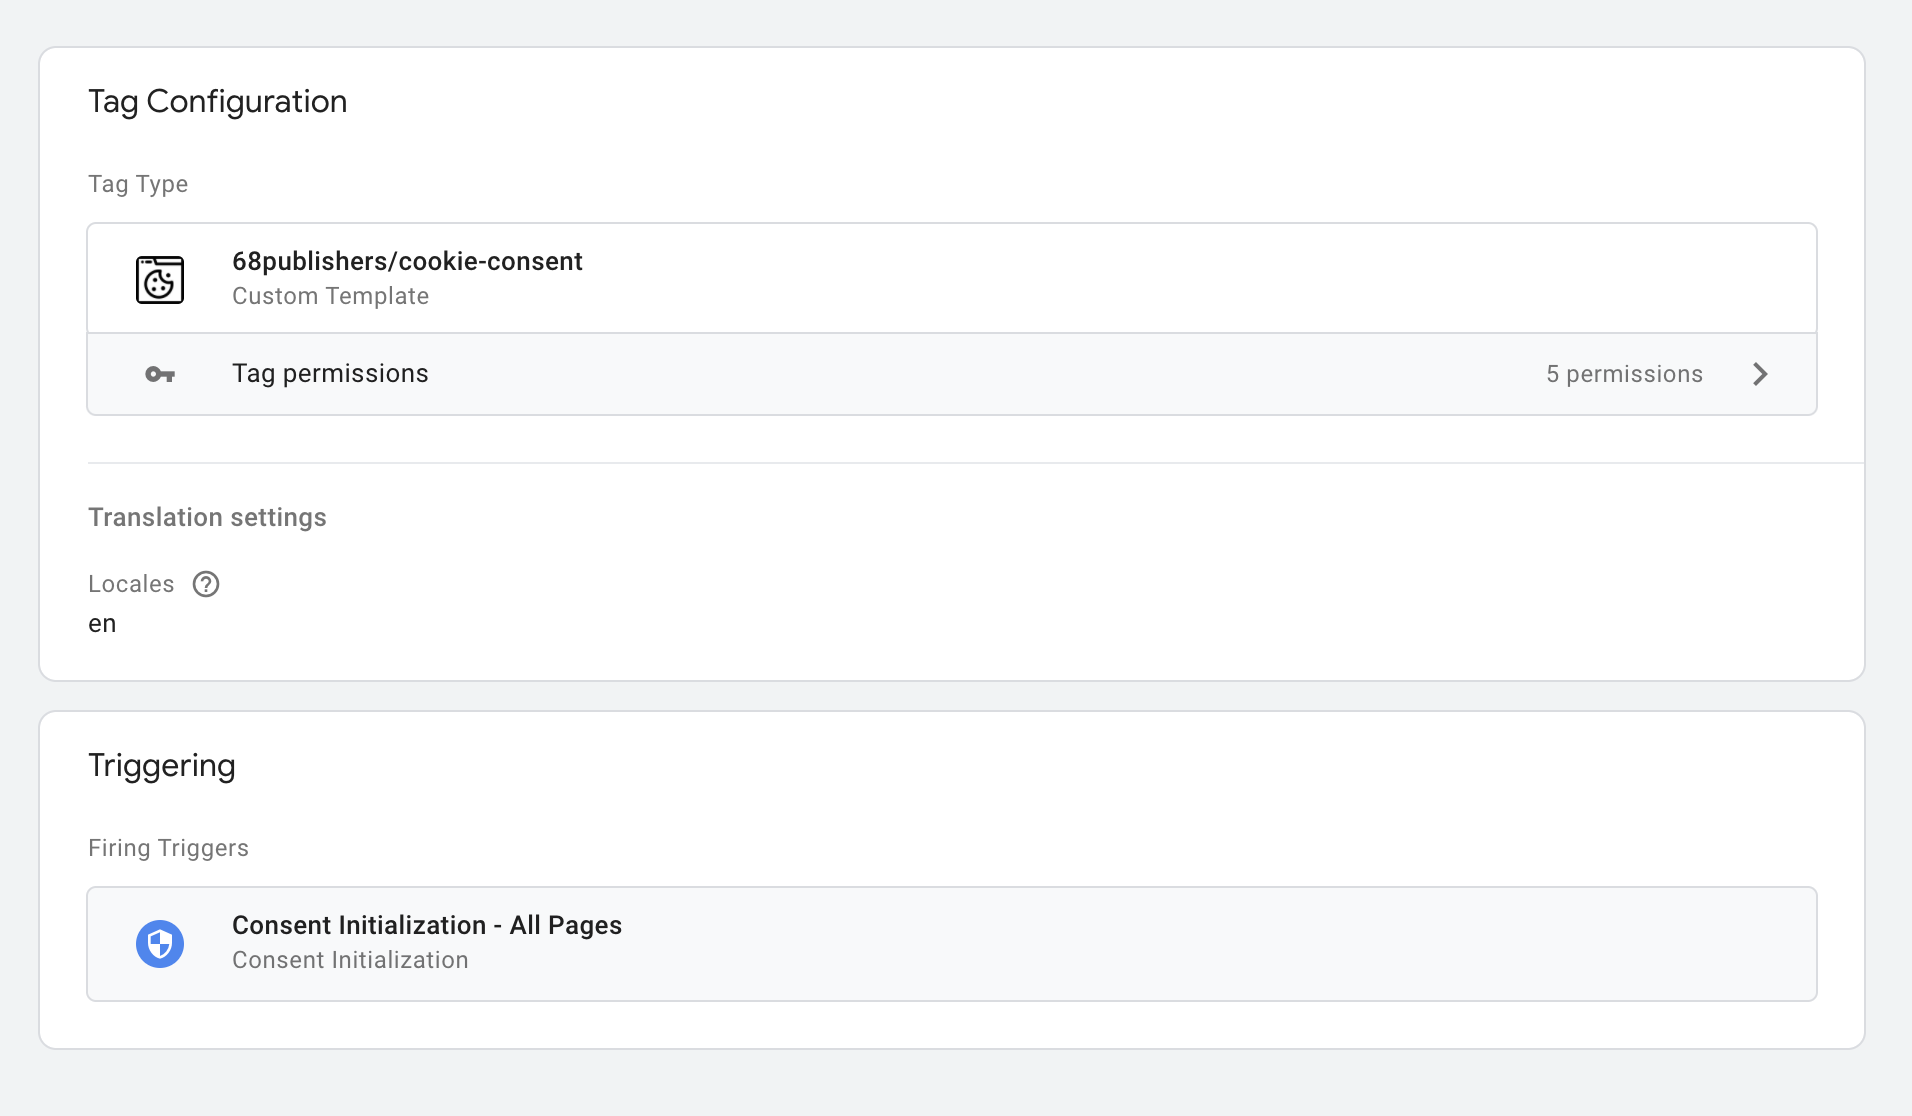
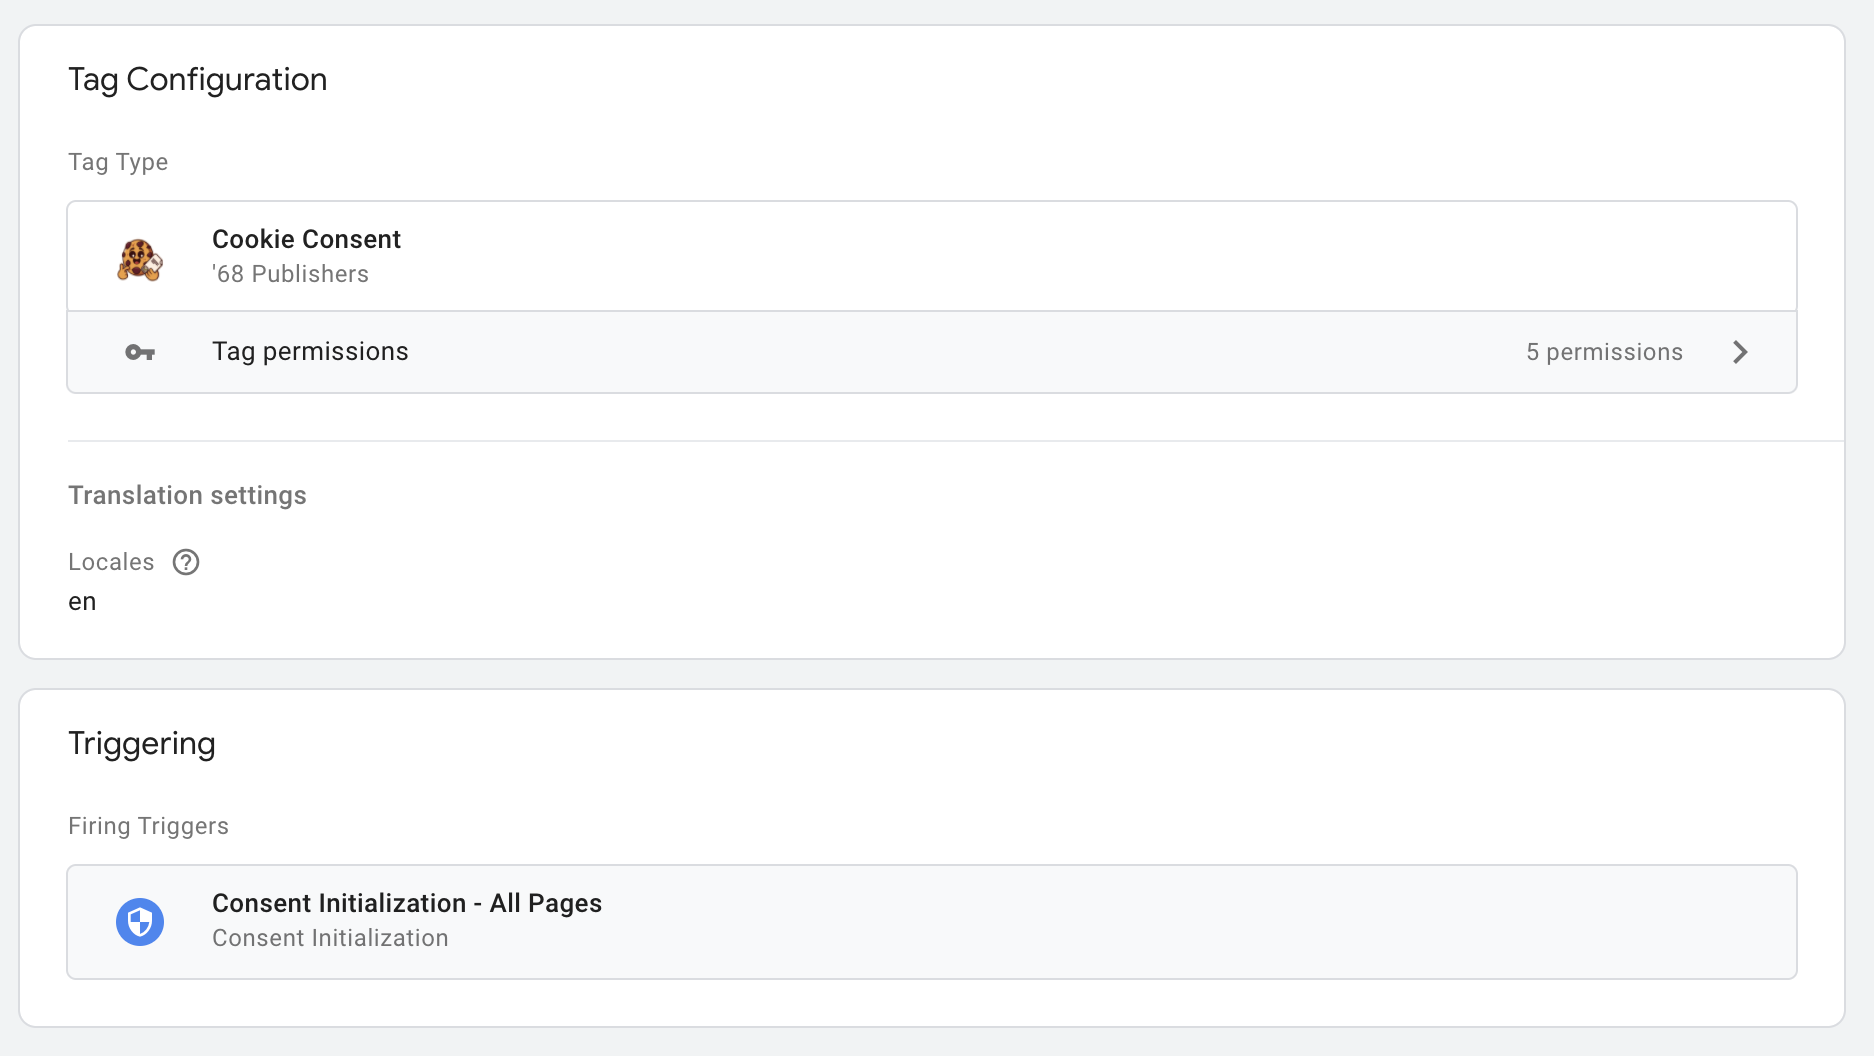
Fixed GTM template and image with a GTM Tag configuration in README

diff --git a/CHANGELOG.md b/CHANGELOG.md
@@ -7,6 +7,15 @@ and this project adheres to [Semantic Versioning](https://semver.org/spec/v2.0.0
 
 ## [Unreleased]
 
+### Changed
+
+- Changed the package logo
+- Updated GTM template - logo, brand etc. - nothing about functionality
+
+### Fixed
+
+- Fixed typos in README
+
 ## [0.2.2] - 2021-12-17
 
 ### Added
@@ -29,7 +38,7 @@ and this project adheres to [Semantic Versioning](https://semver.org/spec/v2.0.0
 - The field `page_scripts` in GTM template.
 - The field `script_selector` in GTM template.
 - Sections `Locale detection` and `Page scripts` in README.
-- Shortcut method `CookieConsentWrapper.allowedCategor()`.
+- Shortcut method `CookieConsentWrapper.allowedCategory()`.
 - Dummy page script in the development demo.
 
 ### Fixed

diff --git a/README.md b/README.md
@@ -1,5 +1,5 @@
 <div align="center" style="text-align: center; margin-bottom: 50px">
-<img src="docs/images/logo.svg" alt="Cookie Consent Logo" align="center">
+<img src="docs/images/logo.svg" alt="Cookie Consent Logo" align="center" width="250">
 <h1 align="center">Cookie Consent</h1>
 
 An extended integration of [orestbida/cookieconsent](https://github.com/orestbida/cookieconsent) with support of the Google Tag Manager. 
